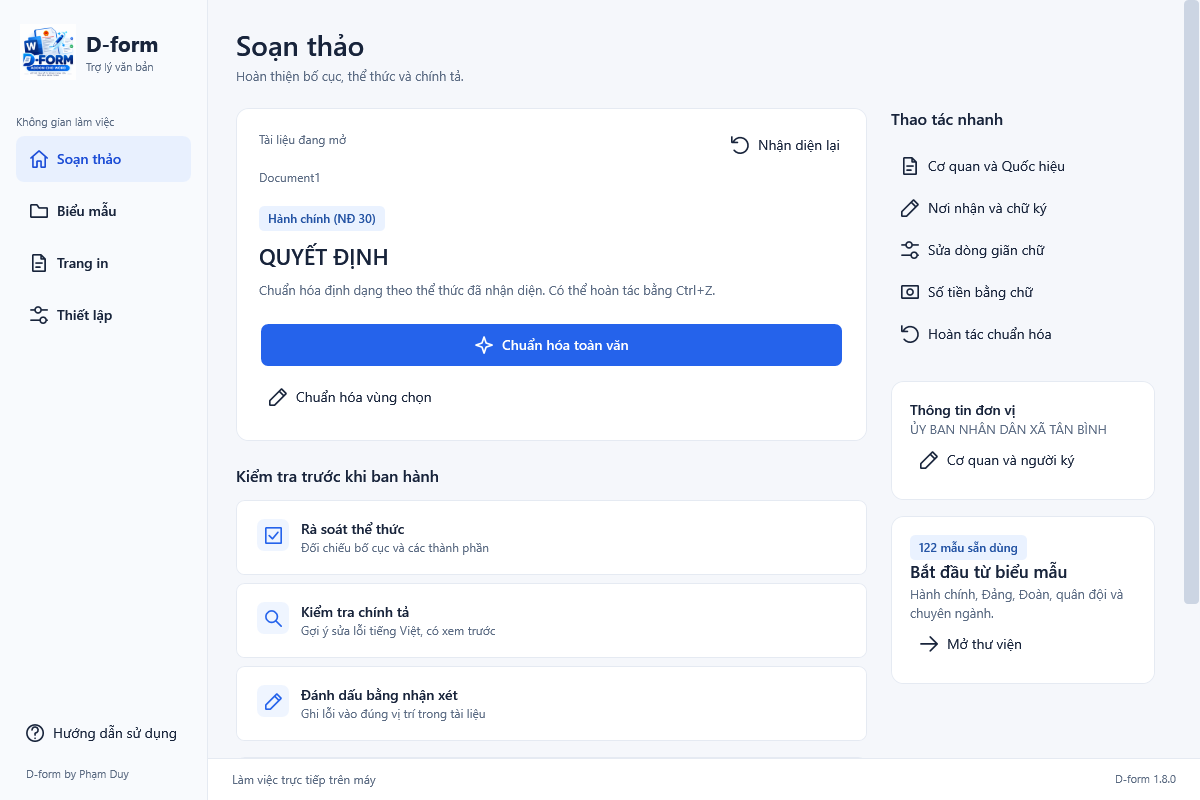
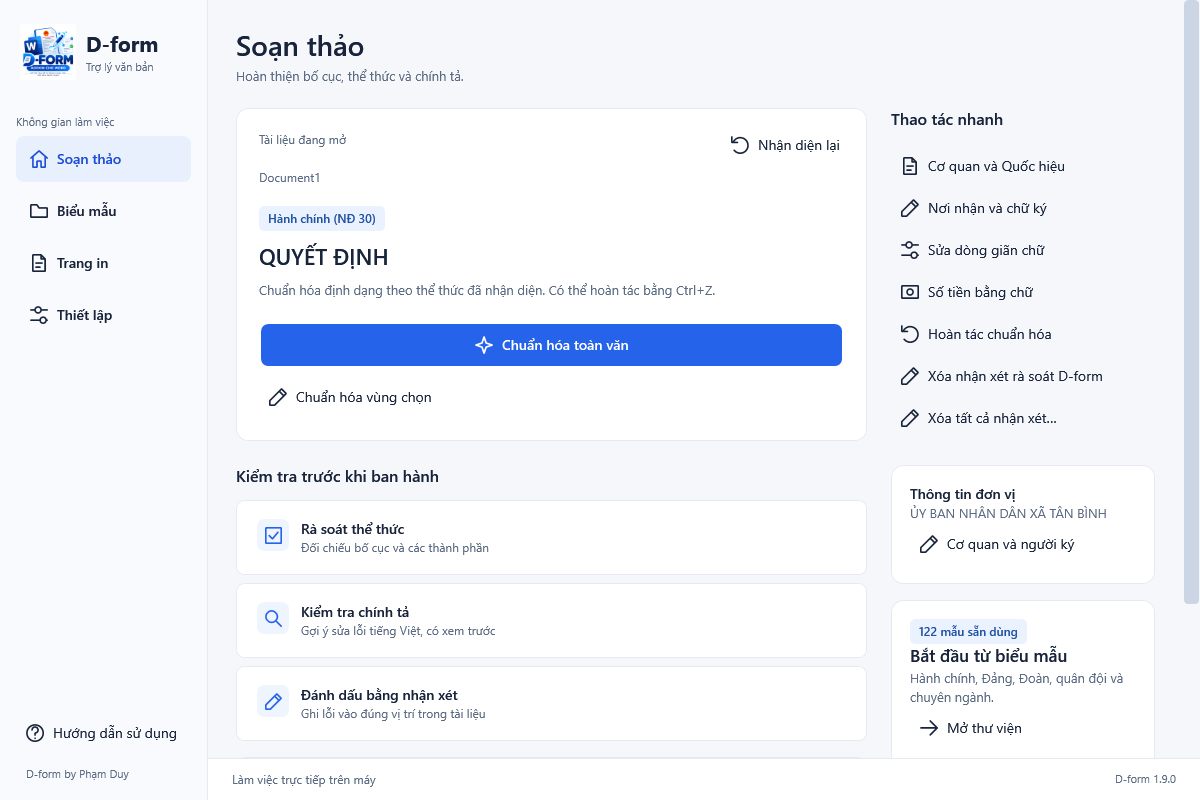
Update 1.9.0 release documentation and verified screenshots

Changed region(s): [[0.74, 0.4688, 0.9558, 0.875], [0.7708, 0.9062, 0.8633, 0.9375]]

diff --git a/README.md b/README.md
@@ -8,18 +8,18 @@ D-form hỗ trợ cán bộ soạn thảo và hoàn thiện văn bản ngay tron
 
 **Miễn phí · Xử lý tài liệu trên máy · Word desktop 64-bit · Windows**
 
-Bản hiện tại: **1.8.0**, bổ sung kiểm tra trước ban hành và xuất PDF, có logo chính thức và bảo vệ mã trong bộ cài.
+Bản hiện tại: **1.9.0** — sửa luồng xem trước có thể hủy và giới hạn thời gian; cải thiện nhận diện dòng trống khi dán từ web; thêm quản lý nhận xét rà soát. Đã kiểm thử 42 nhóm và toàn bộ 122 mẫu, cài nâng cấp AllUsers thực tế trên Word 64-bit.
 
-[Trang tải D-form](https://tronieph.github.io/d-form-releases/) · [Ghi chú bản 1.8.0](https://github.com/TroniePh/d-form-releases/releases/tag/v1.8.0)
+[Trang tải D-form](https://tronieph.github.io/d-form-releases/) · [Ghi chú bản 1.9.0](https://github.com/TroniePh/d-form-releases/releases/tag/v1.9.0)
 
 ## Tải phần mềm
 
 Hai bộ cài đều miễn phí; chọn theo phạm vi sử dụng trên máy.
 
-| Bộ cài | Phù hợp với | Quyền quản trị | Tải bản 1.8.0 |
+| Bộ cài | Phù hợp với | Quyền quản trị | Tải bản 1.9.0 |
 | --- | --- | --- | --- |
-| **Free** | Tài khoản Windows hiện tại | Không cần | [Tải Free.exe](https://github.com/TroniePh/d-form-releases/releases/download/v1.8.0/D-form-Setup-v1.8.0-Free.exe) |
-| **AllUsers** | Tất cả tài khoản trên máy | Cần | [Tải AllUsers.exe](https://github.com/TroniePh/d-form-releases/releases/download/v1.8.0/D-form-Setup-v1.8.0-AllUsers.exe) |
+| **Free** | Tài khoản Windows hiện tại | Không cần | [Tải Free.exe](https://github.com/TroniePh/d-form-releases/releases/download/v1.9.0/D-form-Setup-v1.9.0-Free.exe) |
+| **AllUsers** | Tất cả tài khoản trên máy | Cần | [Tải AllUsers.exe](https://github.com/TroniePh/d-form-releases/releases/download/v1.9.0/D-form-Setup-v1.9.0-AllUsers.exe) |
 
 Máy cần **Microsoft Word desktop 64-bit trên Windows** và **.NET Framework 4.8**. Word 32-bit và Word trên trình duyệt chưa thuộc phạm vi phát hành này.
 
@@ -30,15 +30,19 @@ Máy cần **Microsoft Word desktop 64-bit trên Windows** và **.NET Framework 
 1. Lưu tài liệu đang làm và đóng Word.
 2. Chạy bộ cài phù hợp. Khi nâng cấp, chọn **cùng loại Free hoặc AllUsers** với bản đang dùng; AllUsers cần xác nhận quyền quản trị Windows.
 3. Mở lại Word, chọn tab **D-form → Không gian làm việc** hoặc **Mở bảng điều khiển**.
-4. Chọn **Biểu mẫu** để tạo tài liệu, hoặc **Soạn thảo** để xử lý văn bản đang mở. Mở **Thông tin phiên bản** để kiểm tra 1.8.0.
+4. Chọn **Biểu mẫu** để tạo tài liệu, hoặc **Soạn thảo** để xử lý văn bản đang mở. Mở **Thông tin phiên bản** để kiểm tra 1.9.0.
 
 Trước khi chuẩn hóa toàn văn, kiểm tra thể thức đã nhận diện, đọc bảng xem trước rồi chọn **Sao lưu và áp dụng**. Đọc lại nội dung và bố cục trước khi ký ban hành.
 
 ## Giao diện
 
-![Không gian làm việc D-form 1.8.0](docs/assets/workspace.png)
+![Không gian làm việc D-form 1.9.0](docs/assets/workspace.png)
 
 ## Tính năng
+
+- **Mới ở 1.9.0:** xem trước có tiến độ, Hủy và giới hạn thời gian; có Áp dụng không xem trước với sao lưu/hoàn tác. Word mở bản sao sau khi đã tắt macro và cập nhật liên kết.
+- **Nhận xét rà soát:** xóa riêng nhận xét D-form hoặc xóa toàn bộ sau khi xác nhận; hỗ trợ Ctrl+Z. Có trong menu Rà soát thể thức và công cụ bổ sung.
+- **Văn bản dán từ web:** nhận diện thêm các dòng trống chứa khoảng trắng Unicode khi dựng khung cơ quan và chữ ký.
 
 - **Kiểm tra trước ban hành:** rà ô mẫu, số/ký hiệu, ngày, nhận xét và sửa đổi chưa xử lý; chọn vị trí để sửa. Người ký và thẩm quyền cần đối chiếu thủ công.
 - **Xuất PDF:** gợi ý tên file, xuất toàn văn bằng Word và xác nhận ghi đè. Xử lý sửa đổi đang theo dõi trước khi xuất.
@@ -63,7 +67,7 @@ Cài gói trên trang tải một lần để có bộ cập nhật D-form. Khi 
 - **AllUsers:** cần bấm thông báo cập nhật và xác nhận quyền quản trị; bộ cài chờ Word đóng.
 - Có thể bật/tắt cập nhật tự động trong menu khay Windows. Bộ cập nhật không tự đóng Word hoặc sửa tài liệu.
 
-Bộ cài 1.8.0 dùng **kênh ổn định**, chỉ nhận bản phát hành stable. Trang tải ưu tiên bản ổn định khi có; các bản preview riêng dùng để thử nghiệm.
+Bộ cài 1.9.0 dùng **kênh ổn định**, chỉ nhận bản phát hành stable. Trang tải ưu tiên bản ổn định khi có; các bản preview riêng dùng để thử nghiệm.
 
 ## Dữ liệu và bảo vệ mã
 
@@ -75,13 +79,13 @@ Các bản cũ chưa bảo vệ đã được ẩn khỏi kênh tải công khai
 
 ## Kiểm tra bộ cài
 
-Mỗi release có [SHA256SUMS.txt](https://github.com/TroniePh/d-form-releases/releases/download/v1.8.0/SHA256SUMS.txt). Đối chiếu mã băm của tệp tải về trước khi sử dụng khi cần:
+Mỗi release có [SHA256SUMS.txt](https://github.com/TroniePh/d-form-releases/releases/download/v1.9.0/SHA256SUMS.txt). Đối chiếu mã băm của tệp tải về trước khi sử dụng khi cần:
 
 ```powershell
-Get-FileHash -Algorithm SHA256 -LiteralPath .\D-form-Setup-v1.8.0-Free.exe
+Get-FileHash -Algorithm SHA256 -LiteralPath .\D-form-Setup-v1.9.0-Free.exe
 ```
 
-Bản 1.8.0 đã qua **40 nhóm kiểm tra trên DLL đã bảo vệ**, **122 mẫu**, **41 kiểm tra bàn giao**, **69 kiểm tra bảo vệ mã** và **24 kiểm tra chính sách cập nhật**. Hai bộ cài được giải nén, đối chiếu đủ 287 tệp payload và xác nhận không chứa mã nguồn/PDB/bảng đối chiếu/DLL gốc. Bộ cài chưa ký chứng thư thương mại; SHA256 có trong release.
+Bản 1.9.0 đã qua **42 nhóm kiểm tra trên DLL đã bảo vệ**, **122 mẫu**, **41 kiểm tra bàn giao**, **71 kiểm tra bảo vệ mã** và **24 kiểm tra chính sách cập nhật**. Đã cài nâng cấp AllUsers và kiểm tra thao tác thực tế trên Word 64-bit. Hai bộ cài được giải nén, đối chiếu đủ 287 tệp payload và xác nhận không chứa mã nguồn/PDB/bảng đối chiếu/DLL gốc. Chưa kiểm thử cài trên máy sạch hoặc Word 32-bit. Bộ cài chưa ký chứng thư thương mại; SHA256 có trong release.
 
 ## Hỗ trợ
 
